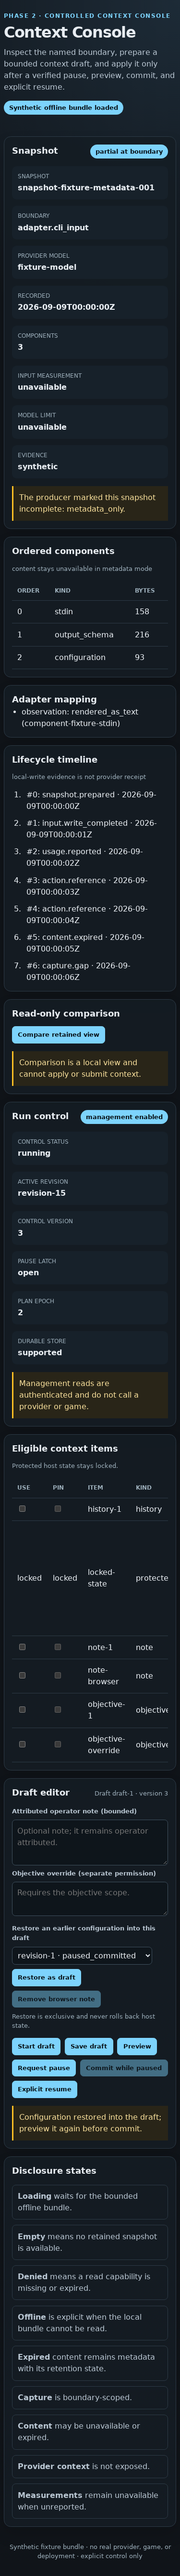
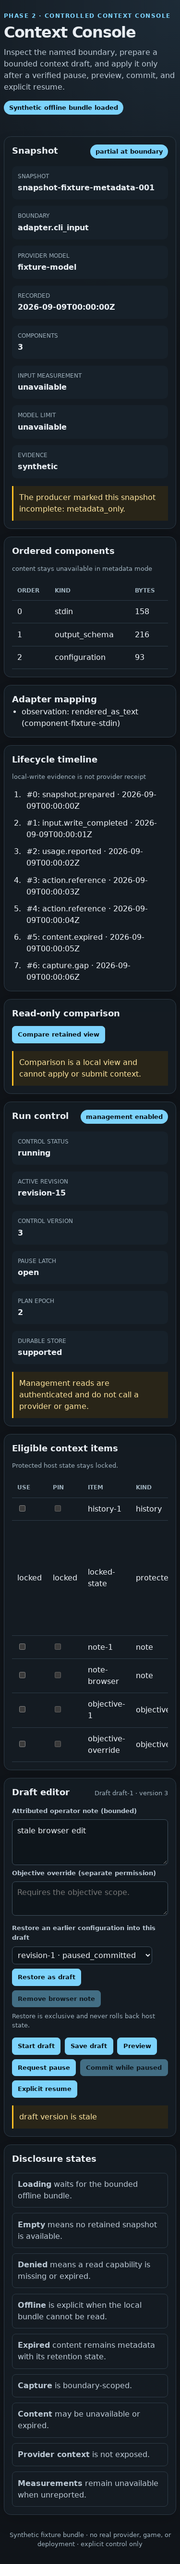
Refresh browser and failure evidence

diff --git a/docs/evidence/phase2-completion-report-20260910.md b/docs/evidence/phase2-completion-report-20260910.md
@@ -2,7 +2,7 @@
 
 This is the review record for the Phase 2 draft branches. Phase 1 was merged first, then the existing target repositories were extended; no Phase 2 branch was merged, released, deployed, or used against a live provider/game.
 
-Target: [ascension-context-console PR #3](https://github.com/AI-Ascension/ascension-context-console/pull/3), implementation source `46167a20b8d63d0b570c987a532fad1d05b88e69`, evidence handoff `1dade34c5f6f6c03fa3a55cdb3d52ff2c971b03f`. Companion: [sts2-harness PR #60](https://github.com/AI-Ascension/sts2-harness/pull/60) at `18c0682ab1218b71db2e76a80703e676caeddd2f`. The target and companion heads are cross-linked in both PR bodies. Contract source pins and SHA-256 values are in `contracts/context-control/README.md`.
+Target: [ascension-context-console PR #3](https://github.com/AI-Ascension/ascension-context-console/pull/3), implementation source `46167a20b8d63d0b570c987a532fad1d05b88e69`, evidence handoff `1dade34c5f6f6c03fa3a55cdb3d52ff2c971b03f`. Companion: [sts2-harness PR #60](https://github.com/AI-Ascension/sts2-harness/pull/60) at `7580619964ad73fd107031fb5bf6a1a6f5c9e3ec`. The target and companion heads are cross-linked in both PR bodies. Contract source pins and SHA-256 values are in `contracts/context-control/README.md`.
 
 The implementation is disabled outside the synthetic management fixture. The target control plane
 never calls a provider or game; its integrated fixture now starts from an opt-in encrypted SQLite
@@ -29,14 +29,14 @@ the 16 KiB input bound. The CLI emits the documented machine schema and makes ze
 or external requests.
 
 The checked-in `docs/evidence/phase2-failure-matrix-20260910.json` enumerates all 80 package
-failure rows. Thirty-nine rows have executable evidence: the browser cases (`P2-F001`,
-`P2-F003`, `P2-F004`, `P2-F005`, `P2-F007`, `P2-F010`, `P2-F011`, `P2-F017`,
-`P2-F022`, `P2-F031`, `P2-F073`, and `P2-F075`) plus named Rust
+failure rows. Forty-four rows have executable evidence: the browser cases (`P2-F001`,
+`P2-F003`, `P2-F004`, `P2-F005`, `P2-F007`, `P2-F010`, `P2-F011`, `P2-F012`, `P2-F017`,
+`P2-F022`, `P2-F031`, `P2-F073`, `P2-F074`, `P2-F075`, and `P2-F076`) plus named Rust
 regressions for CAS, protected identity, restore, authorization, preview freshness/expiry,
 idempotency, plan fencing, stop dominance, safe deactivation, and the approved-resume guard, plus
 target durable-store regressions for transaction rollback, wrong-key/tamper rejection, additive
 schema repair with Phase 1 byte retention, legacy active-state refusal, and companion owner fencing
-for `P2-F064`. The other 41 remain
+for `P2-F064`, plus the companion expired-pin and compiled fake-peer bridge regressions. The other 36 remain
 explicitly marked `required_not_executed` because they require crash windows not injected here,
 live provider/game effects, native ownership controls, or other evidence outside this fixture.
 
@@ -129,7 +129,7 @@ paths.
 The package’s bounded reference model additionally
 checked 12,389 transitions and eight targeted scenarios across 1,802 states; it does not validate
 Rust storage, authentication, provider behavior, game effects, or native topology. The package
-failure matrix has 80 rows. The row-level ledger records 39 executed cases and 41
+failure matrix has 80 rows. The row-level ledger records 44 executed cases and 36
 `required_not_executed` rows; scenarios requiring production storage, live providers, native
 orchestration, or unavailable fault injection remain outside the evidence boundary.
 
